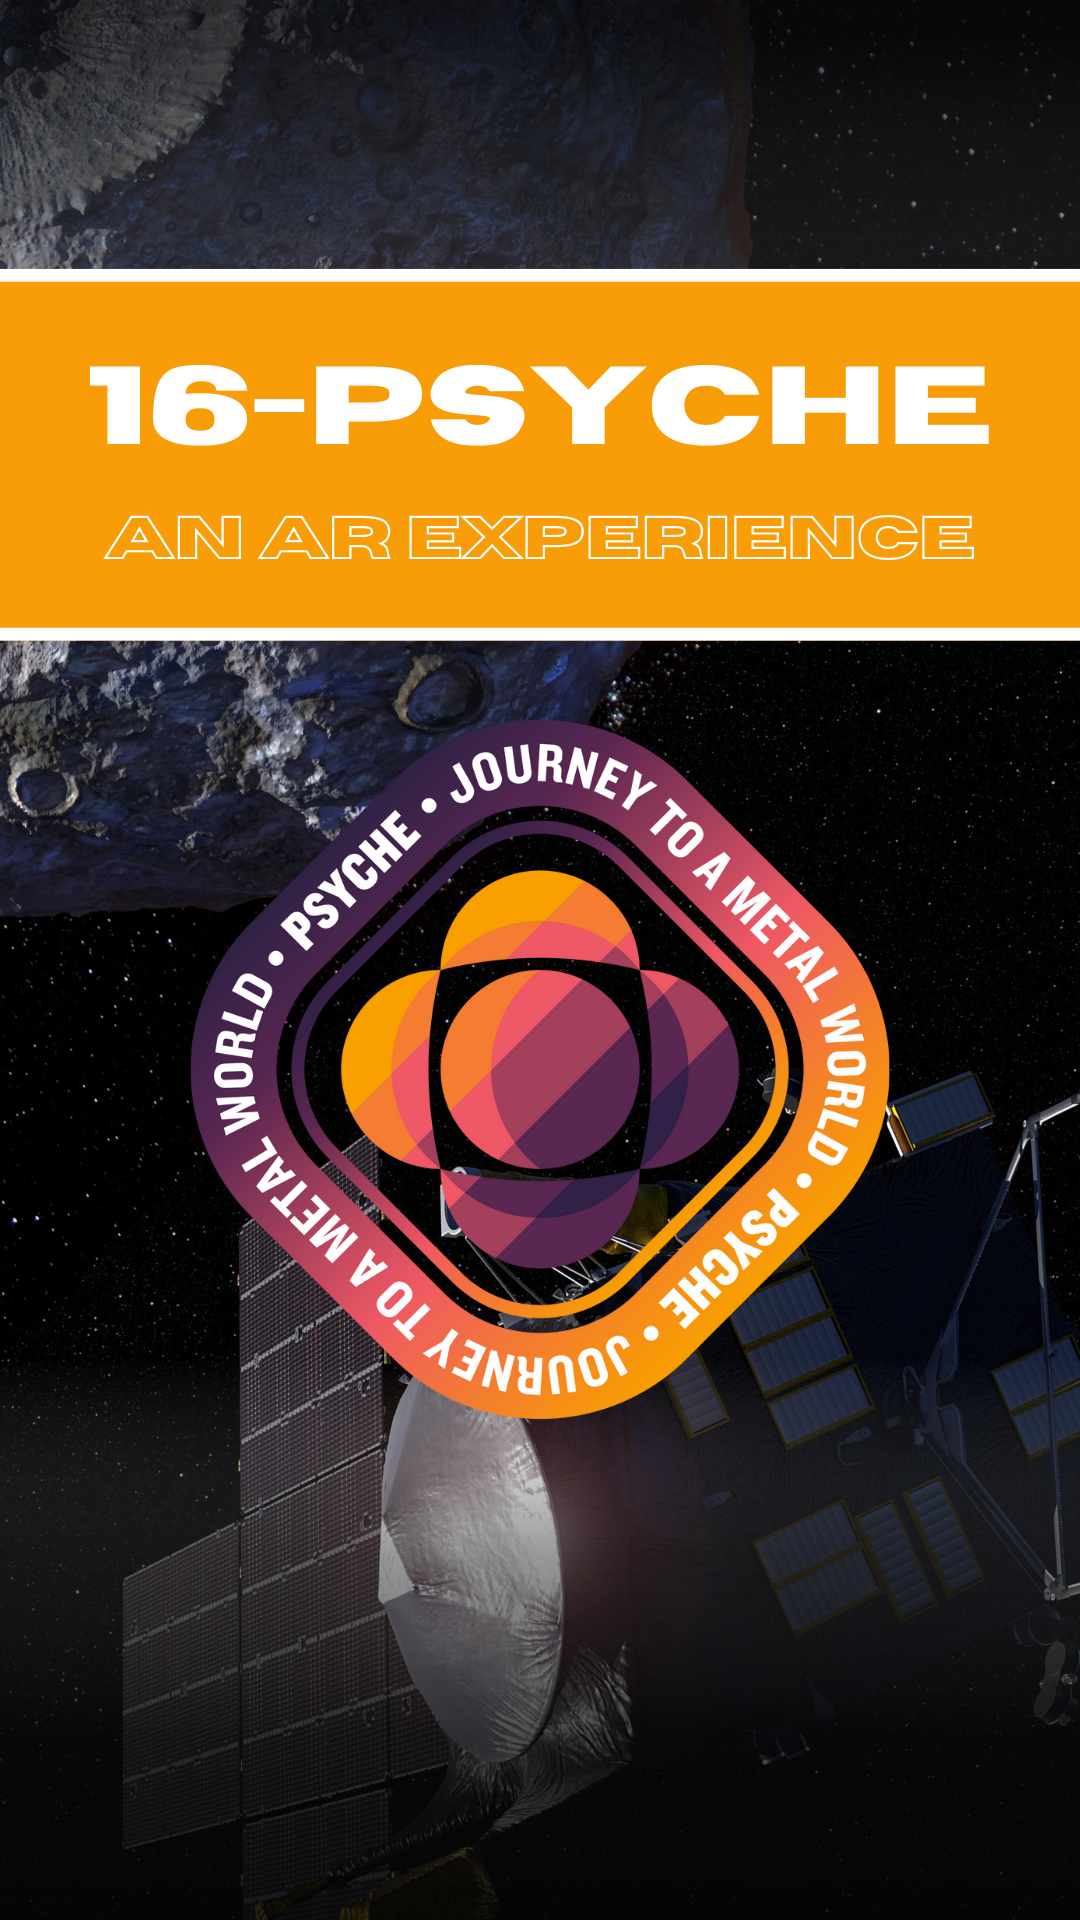
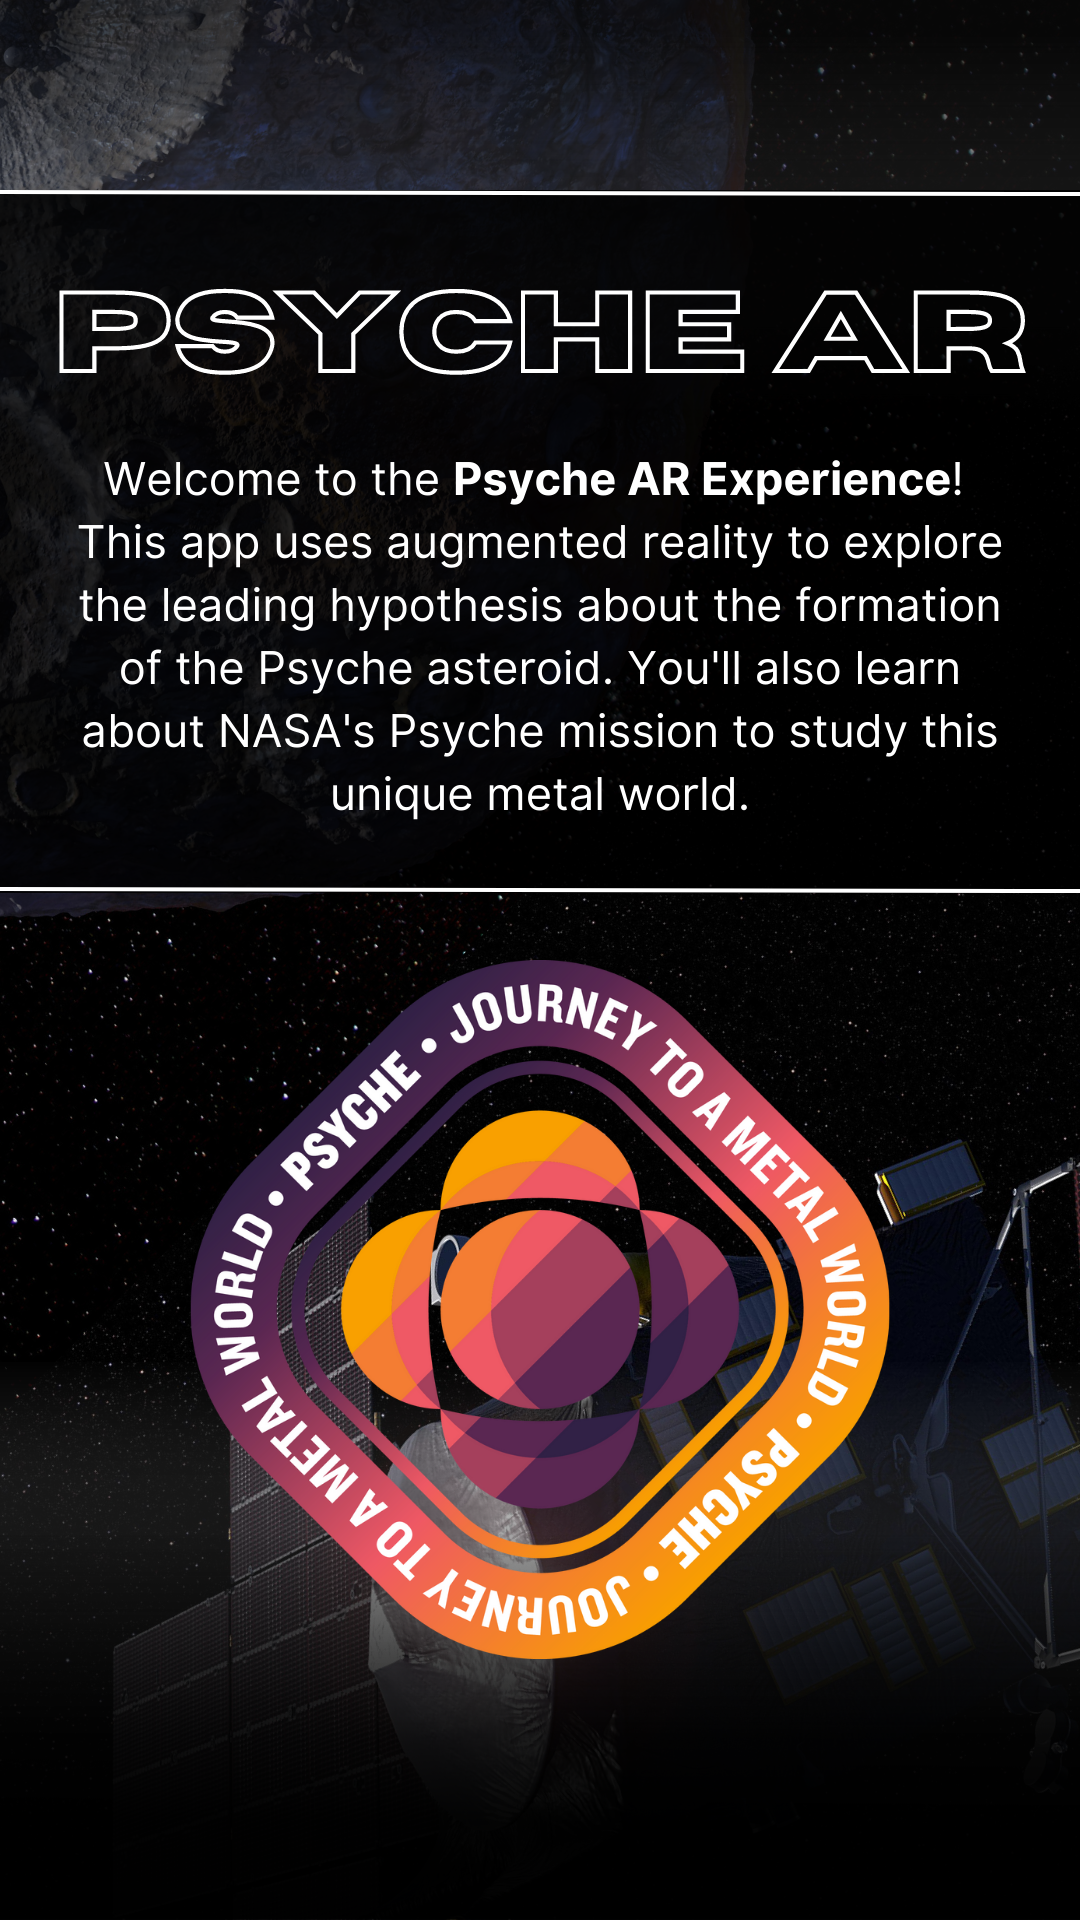
New title screen
- title screen has built in text

diff --git a/PsycheProj/index.html b/PsycheProj/index.html
@@ -71,10 +71,10 @@
 		<!-- This container is divided into 5 rows and represents the screen elements -->
 		<div id="content" class="container-fluid p-0 position-relative">
 
-			<img id="startup-image" class="position-absolute" src="./assets/psyche-title-screen.png">
+			<img id="startup-image" class="position-absolute" src="/assets/psyche-title-screen.png">
 
 			<!-- This is the intro message and will be removed after the introduction is complete -->
-			<p id="intro" class="intro position-absolute"></p>
+			<!-- <p id="intro" class="intro position-absolute"></p> -->
 
 			<!-- This is where the models get placed in JS. It spans the size of the screen -->
 			<div id="model-view-area"></div>

diff --git a/PsycheProj/index.js b/PsycheProj/index.js
@@ -148,7 +148,7 @@ $("#ARButton").click(async function() {
     showViewElements("place-view-element");
 
     // Entirely remove the display of the <p> tag in order to preserve the formatting of the main HTML doc.
-    $("#intro").hide();
+    //$("#intro").hide();
     $("#startup-image").hide();
 });
 
@@ -590,7 +590,7 @@ function loadModel(currentModelState, appStart = true, position = null) {
  */
 function init() {
     // Load the introduction text.
-    document.getElementById("intro").textContent = introText;
+    //document.getElementById("intro").textContent = introText;
 
     // Mute music by default.
     document.getElementById("music").muted = true;
